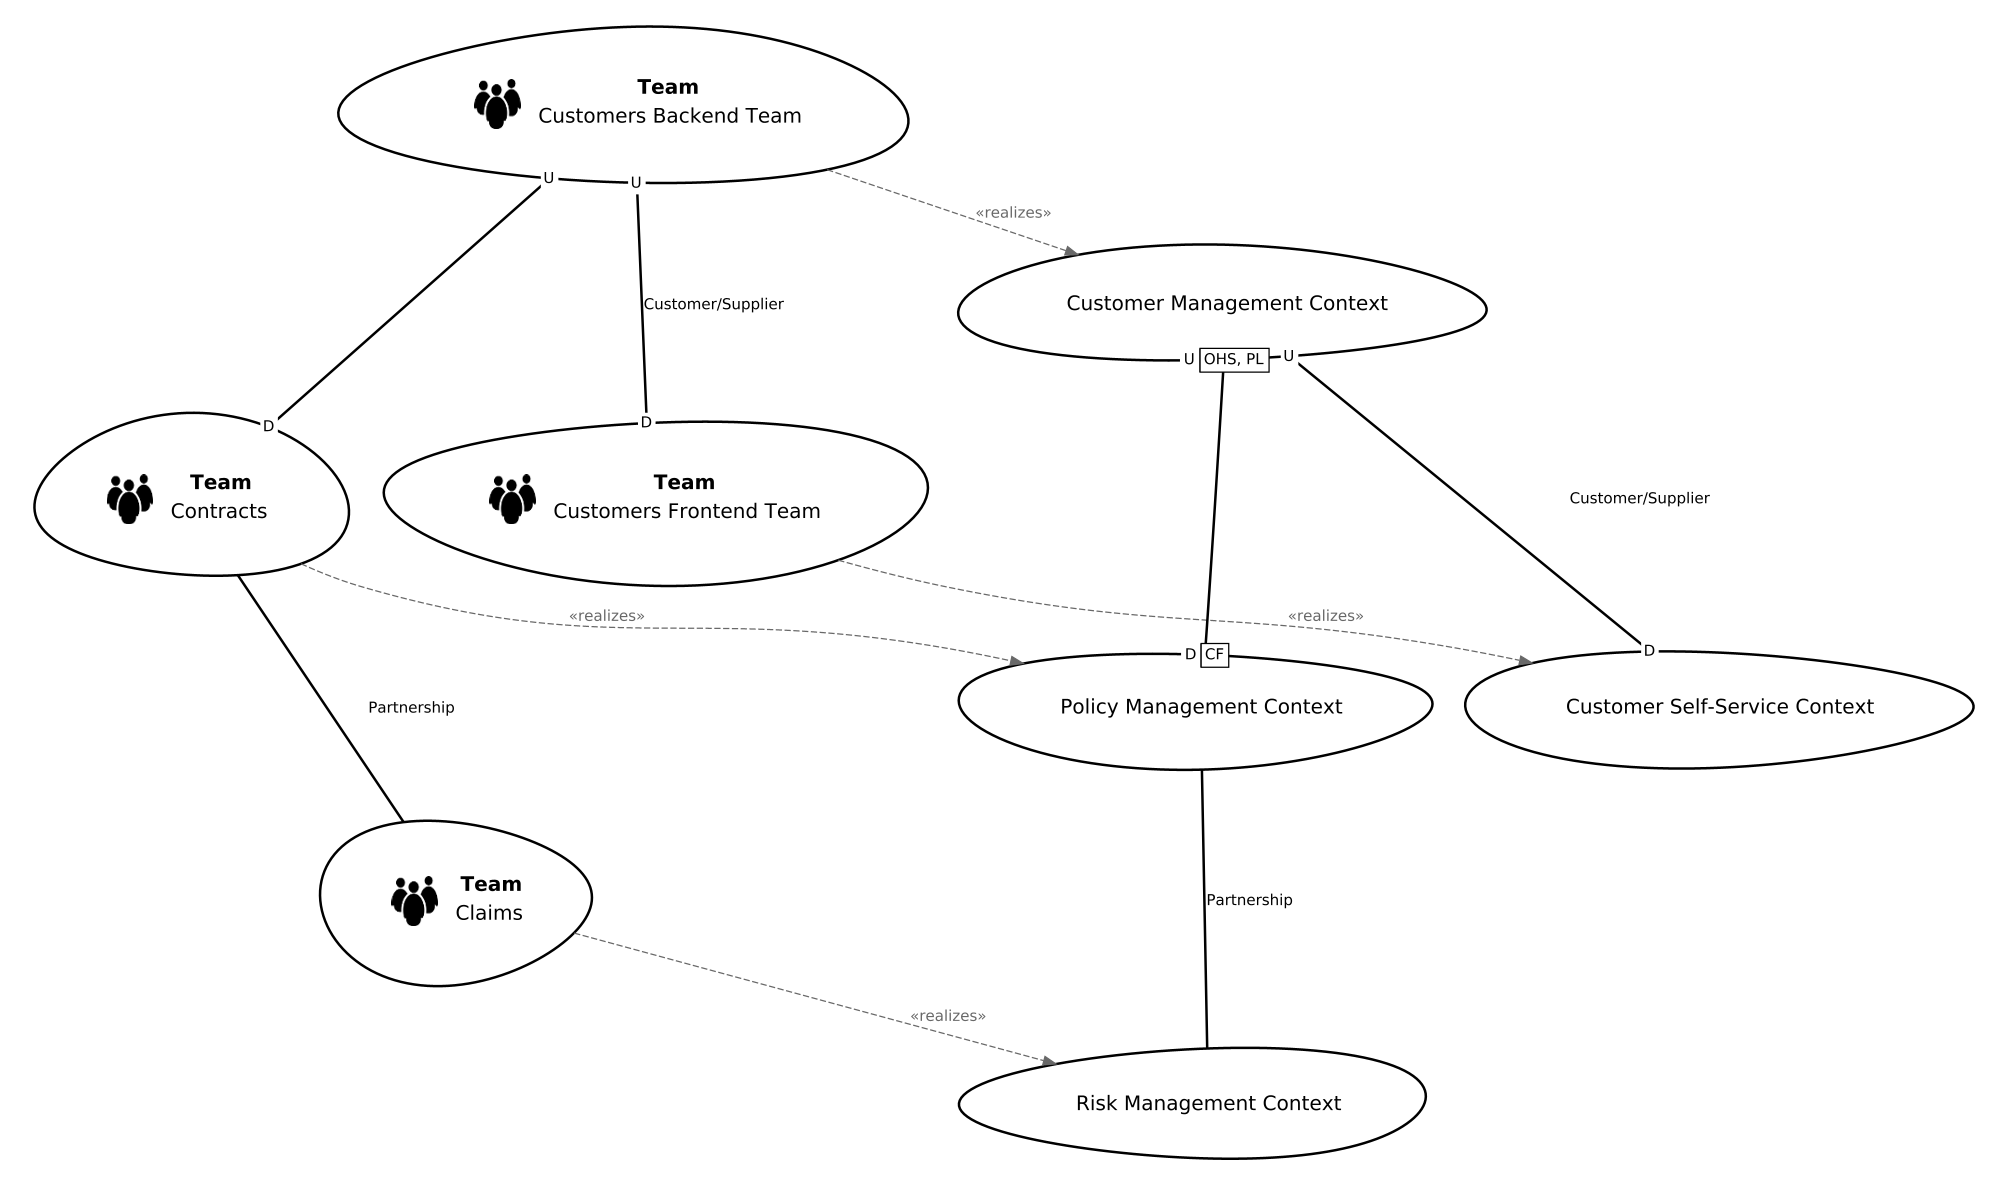
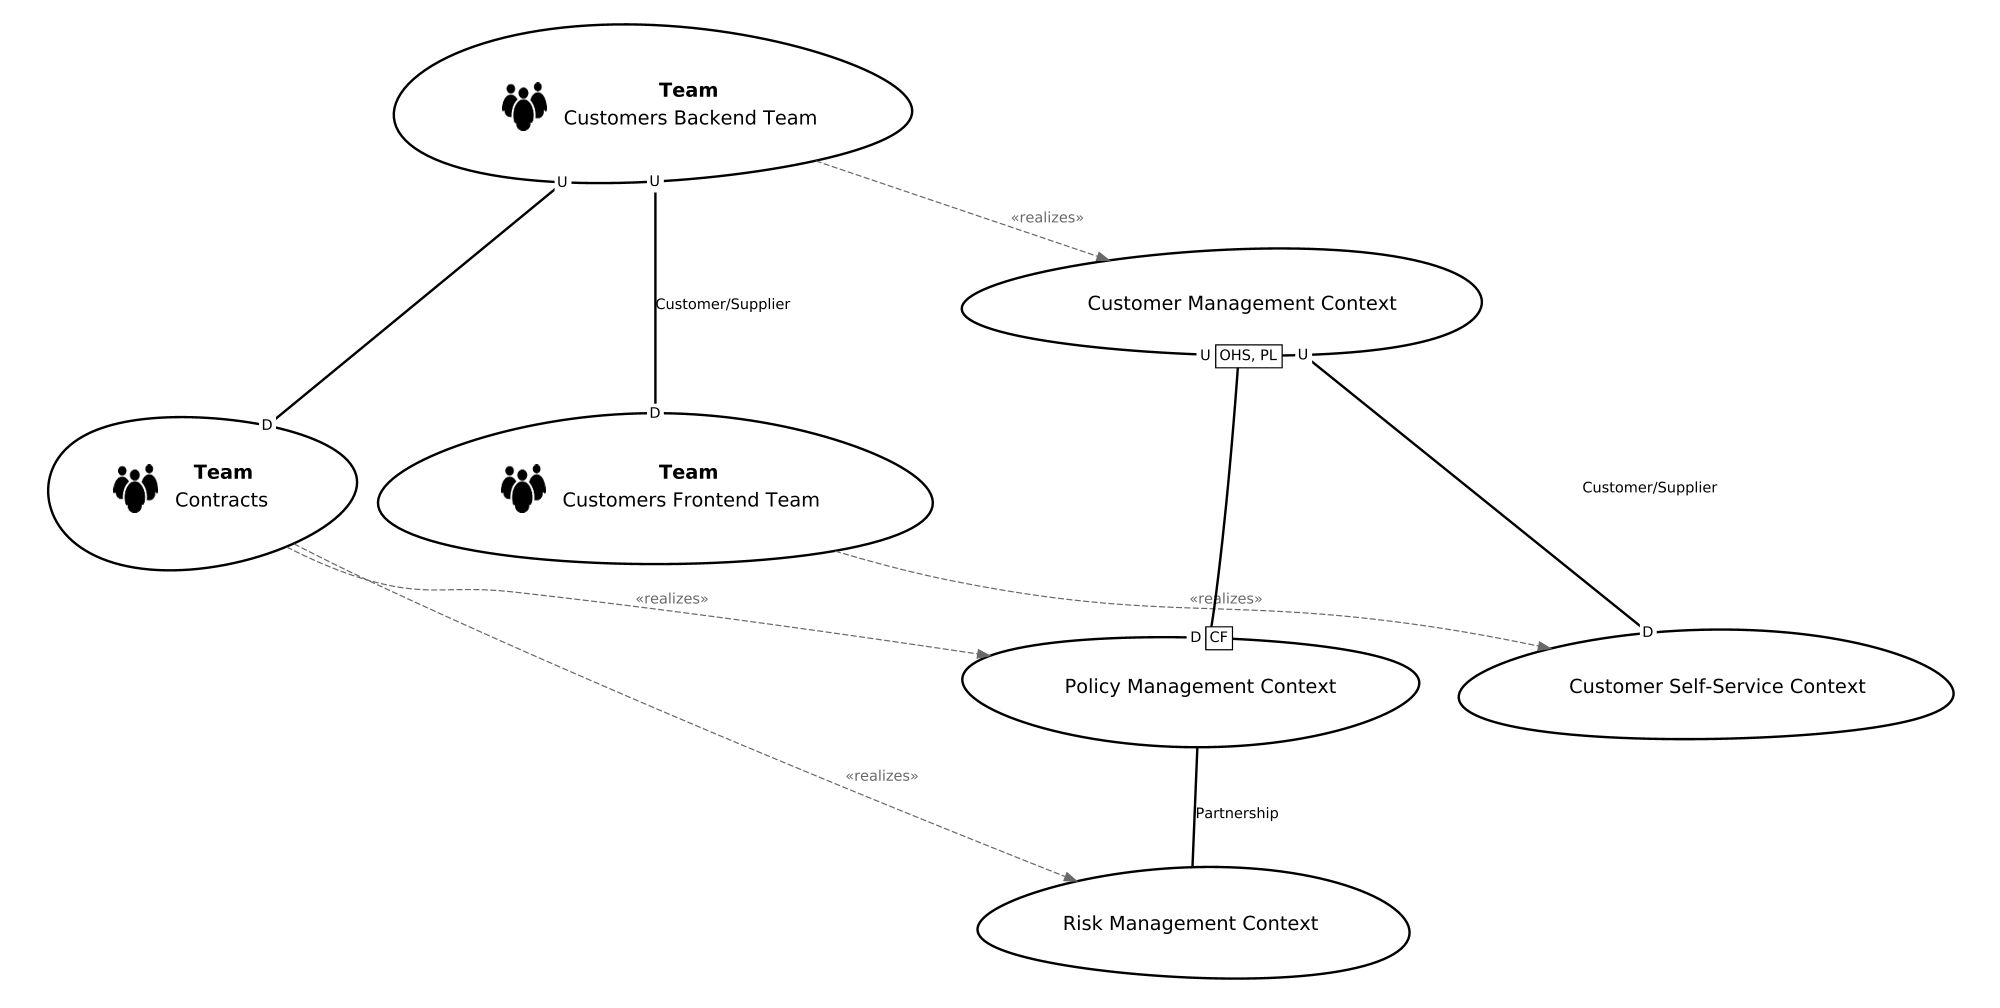
Update README for team maps (improvement)

diff --git a/README.md b/README.md
@@ -113,8 +113,7 @@ BoundedContext customersBackendTeam = new BoundedContext("Customers Backend Team
 BoundedContext customersFrontendTeam = new BoundedContext("Customers Frontend Team", BoundedContextType.TEAM)
   .realizing(customerSelfService);
 BoundedContext contractsTeam = new BoundedContext("Contracts", BoundedContextType.TEAM)
-  .realizing(policyManagementContext);
-BoundedContext claimsTeam = new BoundedContext("Claims", BoundedContextType.TEAM)
+  .realizing(policyManagementContext)
   .realizing(riskManagementContext);
 
 ContextMap contextMap = new ContextMap()
@@ -125,7 +124,6 @@ ContextMap contextMap = new ContextMap()
   .addBoundedContext(customersBackendTeam)
   .addBoundedContext(customersFrontendTeam)
   .addBoundedContext(contractsTeam)
-  .addBoundedContext(claimsTeam)
   .addRelationship(new UpstreamDownstreamRelationship(customerManagement, customerSelfService)
     .setCustomerSupplier(true))
   .addRelationship(new UpstreamDownstreamRelationship(customerManagement, policyManagementContext)
@@ -134,8 +132,7 @@ ContextMap contextMap = new ContextMap()
   .addRelationship(new Partnership(policyManagementContext, riskManagementContext))
   .addRelationship(new UpstreamDownstreamRelationship(customersBackendTeam, customersFrontendTeam)
     .setCustomerSupplier(true))
-  .addRelationship(new UpstreamDownstreamRelationship(customersBackendTeam, contractsTeam))
-  .addRelationship(new Partnership(contractsTeam, claimsTeam));
+  .addRelationship(new UpstreamDownstreamRelationship(customersBackendTeam, contractsTeam));
 
 new ContextMapGenerator()
   .generateContextMapGraphic(contextMap, Format.PNG, "/home/user/myContextMap.png");
